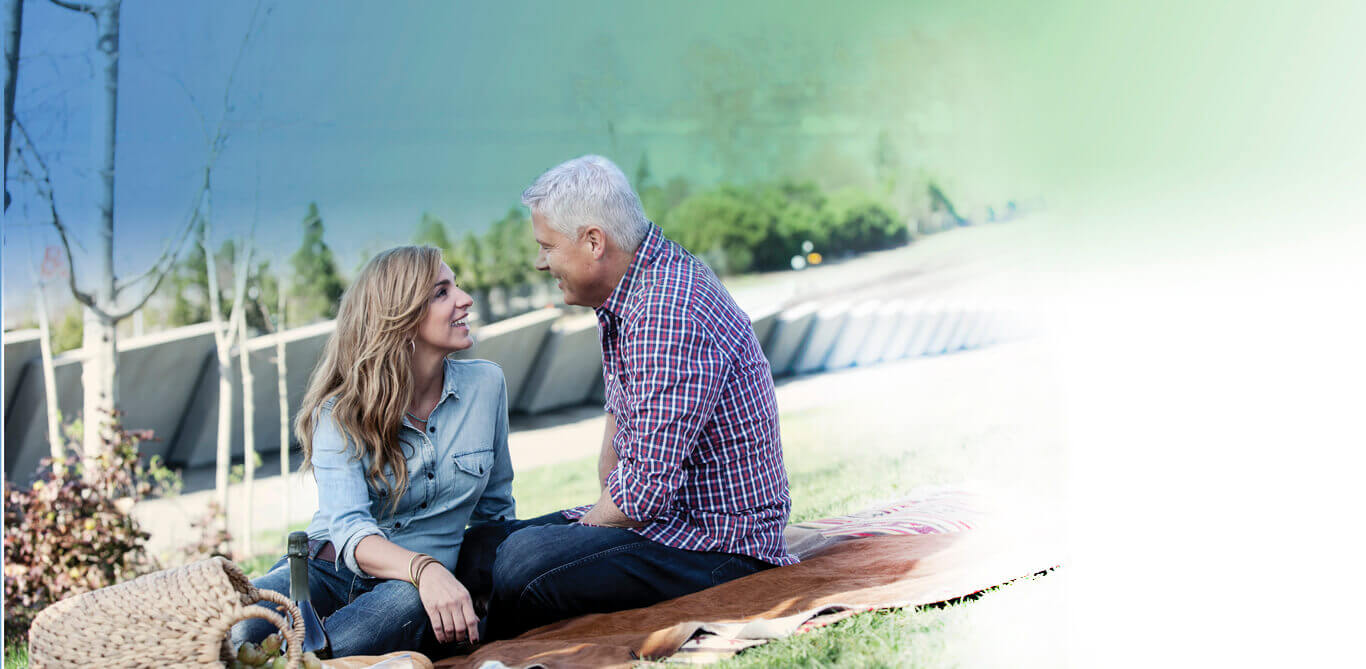
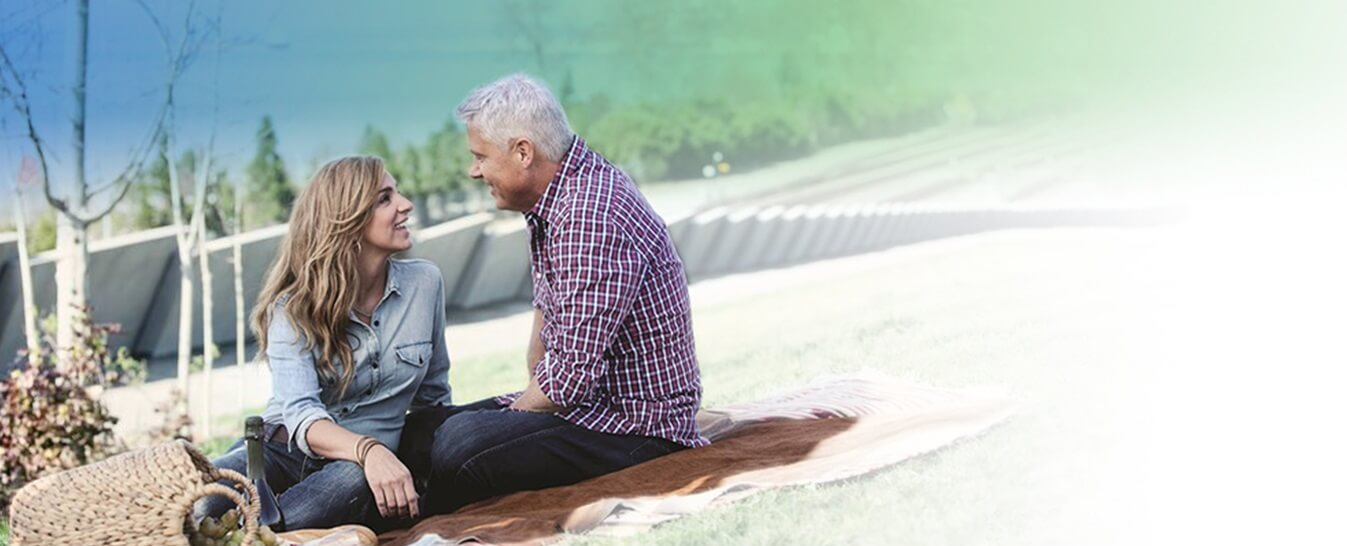
CSS changes and 2 image update

diff --git a/css/blog.css b/css/blog.css
@@ -1,7 +1,7 @@
 .blog .main-hero {
-	background-image: url('../images/bg-blog2.jpg');
+	background-image: url('../images/bg-blog.jpg');
 	background-repeat: no-repeat;
-	background-position: 50% 50%;
+	background-position: 50% 10%;
 	background-size: cover;
 	min-height: 476px;
 	color: #333;
@@ -75,11 +75,7 @@
 .blog-post p {
 	font-family: "raleway";
 	font-size: 1.056em;
-<<<<<<< HEAD
-	line-height: 1.7em;
-=======
 	line-height: 1.85em;
->>>>>>> master
 }
 
 .blog-post a, .recent-blog-post a {
@@ -226,11 +222,7 @@
 
 .blog-template p {
     font-size: 1.056em;
-<<<<<<< HEAD
-    line-height: 1.7em;
-=======
-    line-height: 1.85em;
->>>>>>> master
+  line-height: 1.85em;
 }
 
 .share-on .social-list {

diff --git a/css/the-ijl-story.css b/css/the-ijl-story.css
@@ -21,6 +21,10 @@
 	font-family: 'ralewaymedium';
 }
 
+.the-ijl-story .stats{
+	opacity: 0;
+}
+
 .the-ijl-story .we-believe {
 	margin-bottom: 80px;
 }
@@ -28,6 +32,7 @@
 	text-align: center;
 	margin-bottom: 40px;
 }
+
 .the-ijl-story .we-believe .photo,
 .the-ijl-story .we-believe .gray-box {
 	margin: 0 0 30px 0;
@@ -35,7 +40,10 @@
 }
 
 .the-ijl-story .we-believe .gray-box {
-	background-color: #979797;
+	position: absolute;
+	top: 0;
+	opacity: 0;
+	background-color: #000000;
 	color: #fff;
 	text-align: center;
 	padding: 40px 10px;

diff --git a/css/home.css b/css/home.css
@@ -67,6 +67,7 @@
 }
 
 .home .main-hero .get-started p b {
+	display: block;
 	/*font-size: 18px;*/
 	/*font-size: .53em;*/
 	/*font-size: 1.125em;
@@ -149,10 +150,7 @@
 	border-left: 1px solid #555;
 	width: 10px;
 	/*height: 420px;*/
-
-
 	height: 430px;
-
 	color: #555;
 	position: absolute;
 	left: 0;
@@ -167,9 +165,7 @@
 	background-repeat: no-repeat;
 	background-position: center;
 	/*height: 623px;*/
-
 	height: 440px;
-
 	background-size: contain;
 }
 
